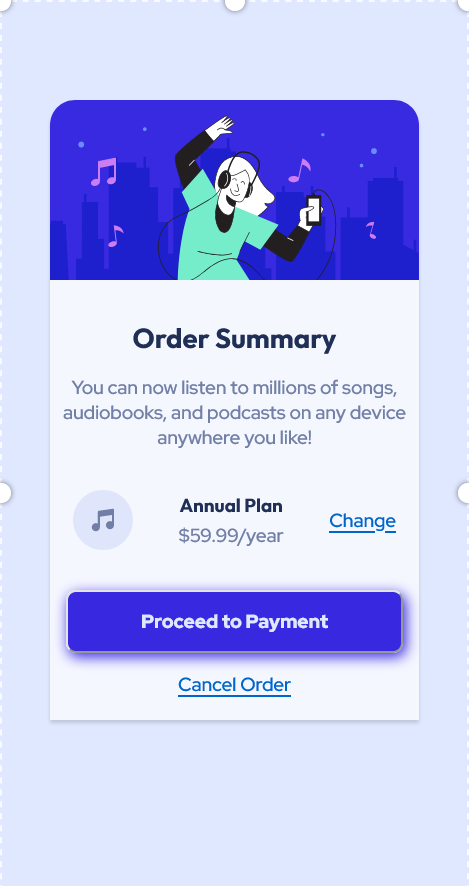
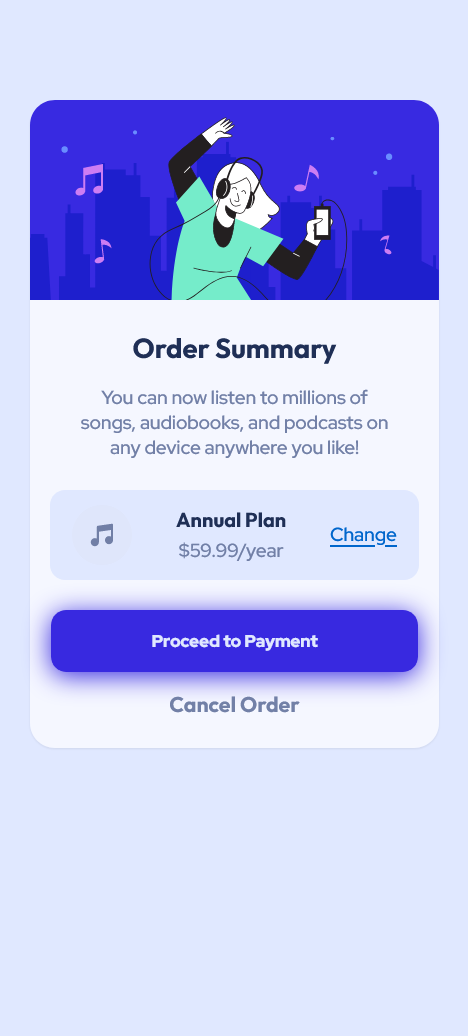
fixed some thinks

diff --git a/README.md b/README.md
@@ -19,11 +19,11 @@ This is a solution to the [Order summary card challenge on Frontend Mentor](http
 
 ### Links
 
-- Solution URL: [Here Is My Solution](https://your-solution-url.com)
-- Live Site URL: [Here Is My Live Site](https://your-live-site-url.com)
+- Solution URL: [Here Is My Solution](https://www.frontendmentor.io/solutions/order-summary-kfLwwHzBMl)
+- Live Site URL: [Here Is My Live Site](https://snazzy-chebakia-68eb56.netlify.app)
 
 ## My process
-None faced many problems need improve
+Learned about em and rem trying make responsive layouts
 
 ### Built with
 
@@ -34,27 +34,24 @@ None faced many problems need improve
 
 I learned about :hover 
 ```
-button:hover{
-  background:var(--clr-neu-Ddblue) ;
+example:hover{
+  background: var(--clr-pri-Bblue2);
+  box-shadow: 0px 3px 20px hsl(245, 45%, 50%);
+}
+
+.example:hover{
+  color: var(--clr-neu-Dblue);
 }
 ```
 and i learned about box shadows
 ```
-button{
-  color:var(--clr-pri-pblue);
-  background: var(--clr-pri-Bblue);
-  border-radius: 8px;
-  width: 270px;
-  height: 50px;
-  font-family: var(--ff-main2);
-  font-weight: var(--fw-black);
-  font-size: 15px;
-  box-shadow: 2px 3px 10px hsl(245, 75%, 52%);
+example{
+  box-shadow: 0px 3px 20px hsl(245, 45%, 50%);
+  box-shadow: 0px 1.25px 1.25px rgba(0, 0, 0, 0.08);
 }
 ```
 ### Continued development
-
-I have to improve my padding margin understanding and learn how to change media
+How media works,Site responsivnes
 
 ## Author
 
